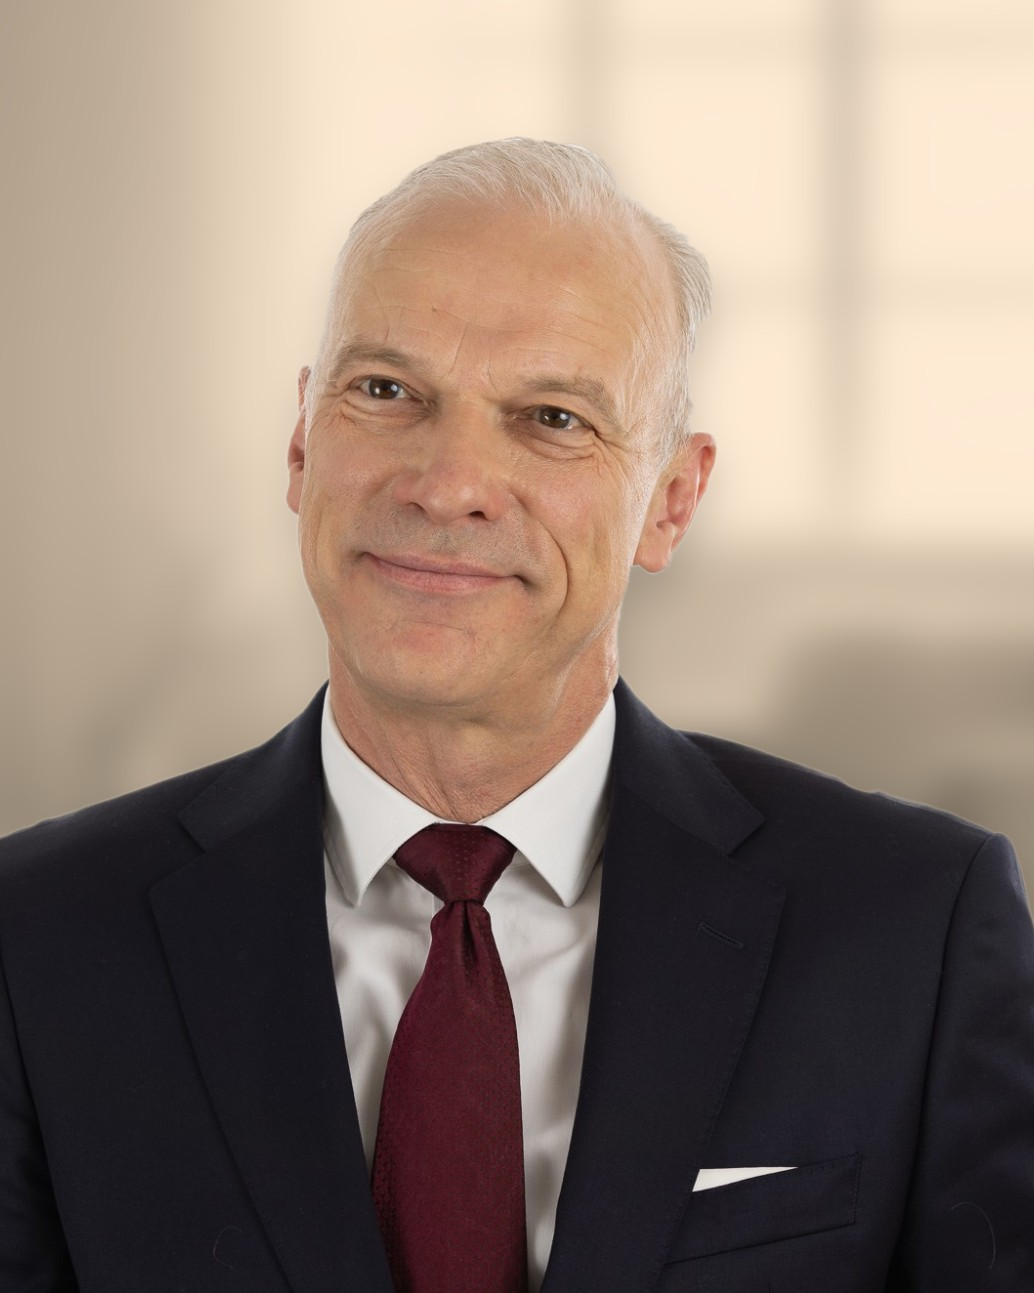
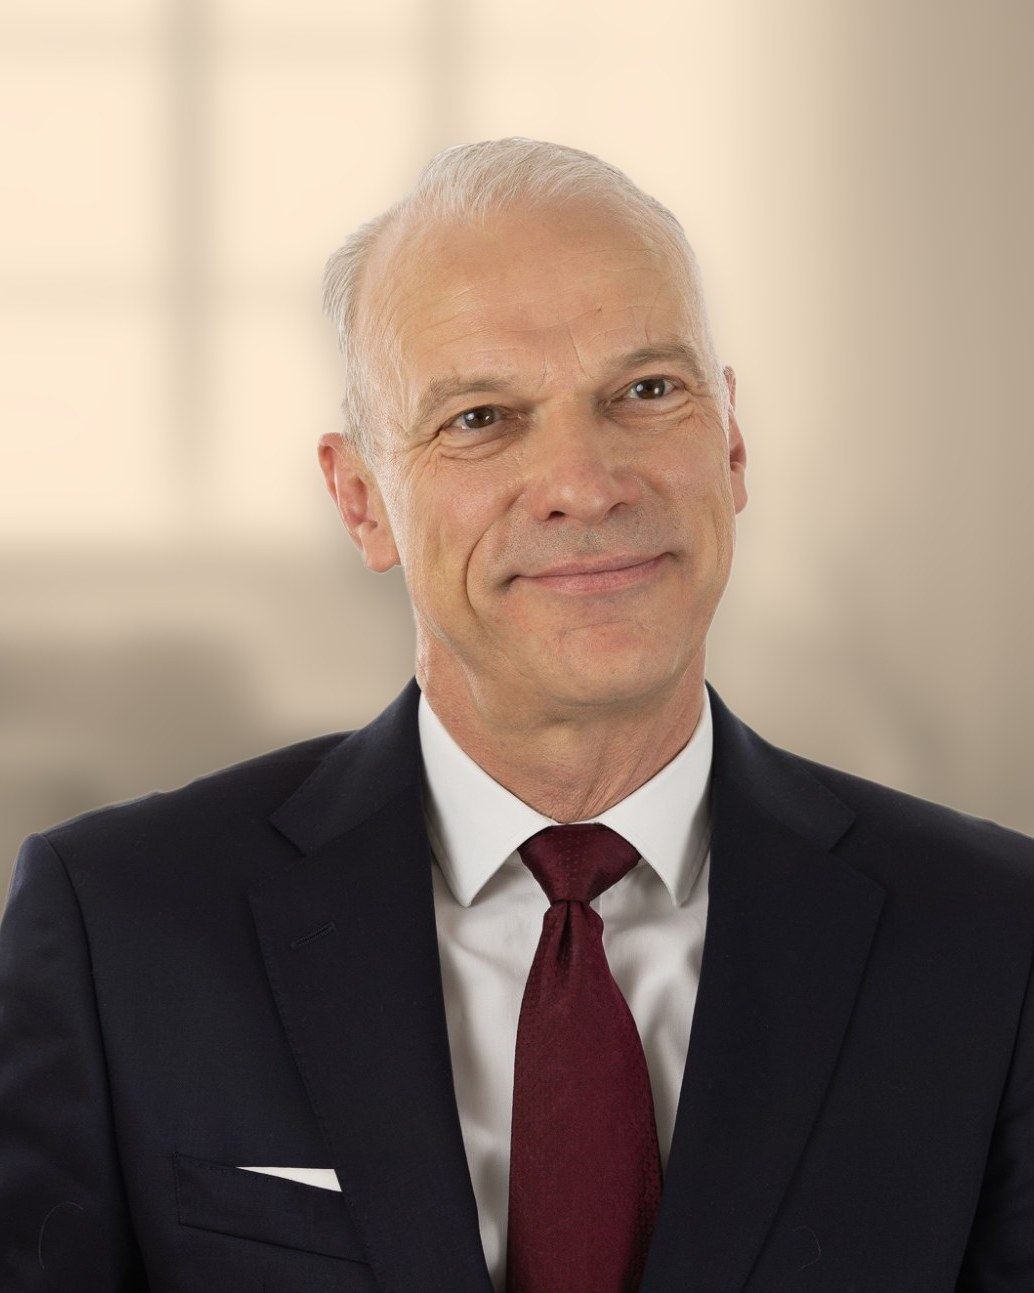
Refresh hero and section imagery on rhinoplasty & facelift pages
- Mirror the 'Your surgeon' portrait so Hagen faces the copy (both pages)
- Rhinoplasty hero: new model image, background recoloured to warm cream
  to match the site, cropped to 16:9 with the model on the right half so
  the headline sits over clear space on the left
- Rhinoplasty 'What to expect': new clinical nose-assessment image
- Facelift 'What to expect': new facial-assessment image

Claude-Session: https://claude.ai/code/session_01YKkpd85ueaQwSE6AP1dj2S

diff --git a/site/rhinoplasty.html b/site/rhinoplasty.html
@@ -637,7 +637,7 @@ height="0" width="0" style="display:none;visibility:hidden"></iframe></noscript>
 
 <!-- ============ HERO ============ -->
 <section class="hero" id="top">
-  <div class="hero-bg"><img src="images/web/hero-hagen.jpg" alt="Hagen Schumacher, consultant plastic surgeon" /></div>
+  <div class="hero-bg"><img src="images/web/hero-rhino.jpg" alt="Rhinoplasty at Adore Life · Hagen Schumacher" /></div>
   <div class="hero-inner">
     <span class="eyebrow hero-eyebrow">Rhinoplasty · London &amp; Cambridge</span>
     <h1>Rhinoplasty that refines your profile <em>and keeps you looking like you.</em></h1>
@@ -923,7 +923,7 @@ height="0" width="0" style="display:none;visibility:hidden"></iframe></noscript>
 <section class="section expect">
   <div class="wrap split">
     <div class="expect-img reveal">
-      <img src="images/web/listening-scrub-1.jpg" alt="Hagen Schumacher in clinic" />
+      <img src="images/web/rhino-expect.jpg" alt="Rhinoplasty assessment in clinic" />
     </div>
     <div class="reveal">
       <span class="eyebrow">Your journey</span>

diff --git a/site/facelift.html b/site/facelift.html
@@ -909,7 +909,7 @@ height="0" width="0" style="display:none;visibility:hidden"></iframe></noscript>
 <section class="section expect">
   <div class="wrap split">
     <div class="expect-img reveal">
-      <img src="images/web/listening-scrub-1.jpg" alt="Hagen Schumacher in clinic" />
+      <img src="images/web/facelift-expect.jpg" alt="Face and neck lift assessment in clinic" />
     </div>
     <div class="reveal">
       <span class="eyebrow">Your journey</span>